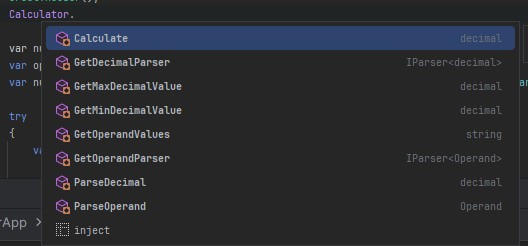
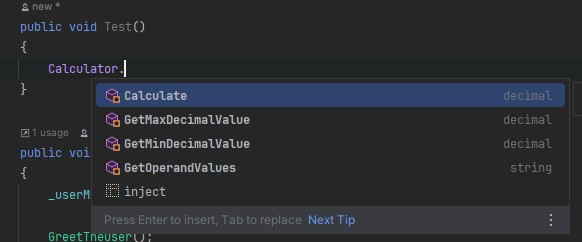
v 1.0.7: Documentation update;

diff --git a/README.md b/README.md
@@ -62,43 +62,49 @@ using CalculatorLib;
 
 Besides that, some other classes also have public methods in case you choose to access them directly. Eg:
 
-![Parser class methods](Documentation/parser_class_methods.jpg)
+![Input type decimal - methods](Documentation/input_type_decimal_methods.jpg)
+
+or
+
+![Input type operand - methods](Documentation/input_type_operand_methods.jpg)
 
 #### 6.1 GET ALLOWED VALUES
 
 ```csharp
-    Calculator.GetMaxDecimalValue(),
-    Calculator.GetMinDecimalValue(),
-    Calculator.GetOperandValues()
+    public void Test()
+    {
+        Calculator.GetMaxDecimalValue();
+        Calculator.GetMinDecimalValue();
+        Calculator.GetOperandValues();
+
+        InputTypeDecimal.GetMaxValue();
+        InputTypeDecimal.GetMinValue();
+        
+    }
+
 ```
 
 #### 6.2 PARSE USER INPUT
 ```csharp
-    public void ParsersExample()
+    public void Test()
     {
-        // Using Calculator class
-        Calculator.ParseDecimal("3");
-        Calculator.ParseOperand("+");
+        var num = InputTypeDecimal.Parse("6");
         
-        
-        // Using Parser classs
-        var decimalParser =  Calculator.GetDecimalParser();
-        decimalParser.Parse("9");
-        
-        var operandParser =  Calculator.GetOperandParser();
-        decimalParser.Parse("9");
-        
+        var operand = InputTypeOperand.Parse("/");
     }
 ````    
 
 #### 6.3 PERFORM CALCULATION
 ```csharp
-    public void CalculationExample()
+    public void Test()
     {
-        var num = Calculator.ParseDecimal("3");
-        var operand = Calculator.ParseOperand("+");
+        var num1 = InputTypeDecimal.Parse("6");
+        var num2 = InputTypeDecimal.Parse("3");
         
-        var result = Calculator.Calculate(num, num, operand);
+        var operand = InputTypeOperand.Parse("/");
+        
+        
+        var result = Calculator.Calculate(num1, num2, operand);
     }
 ```
 
